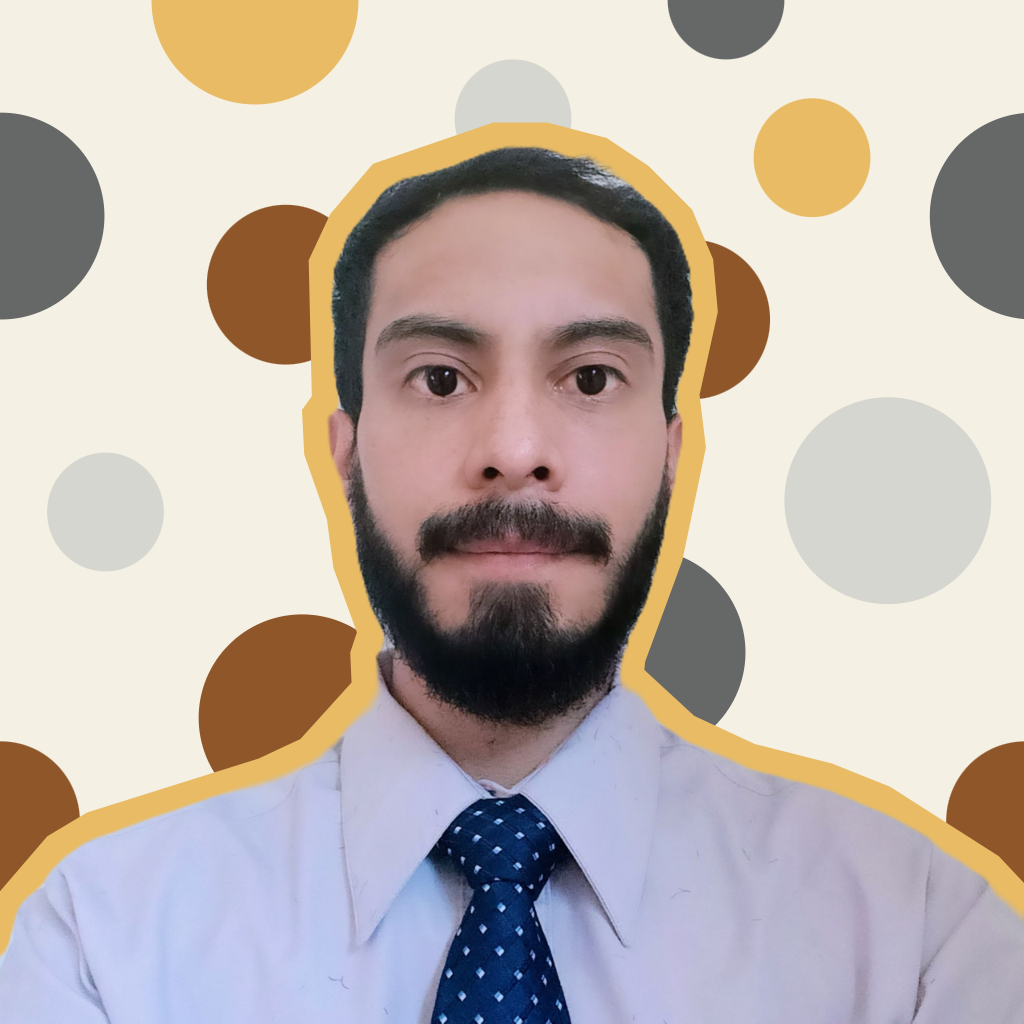
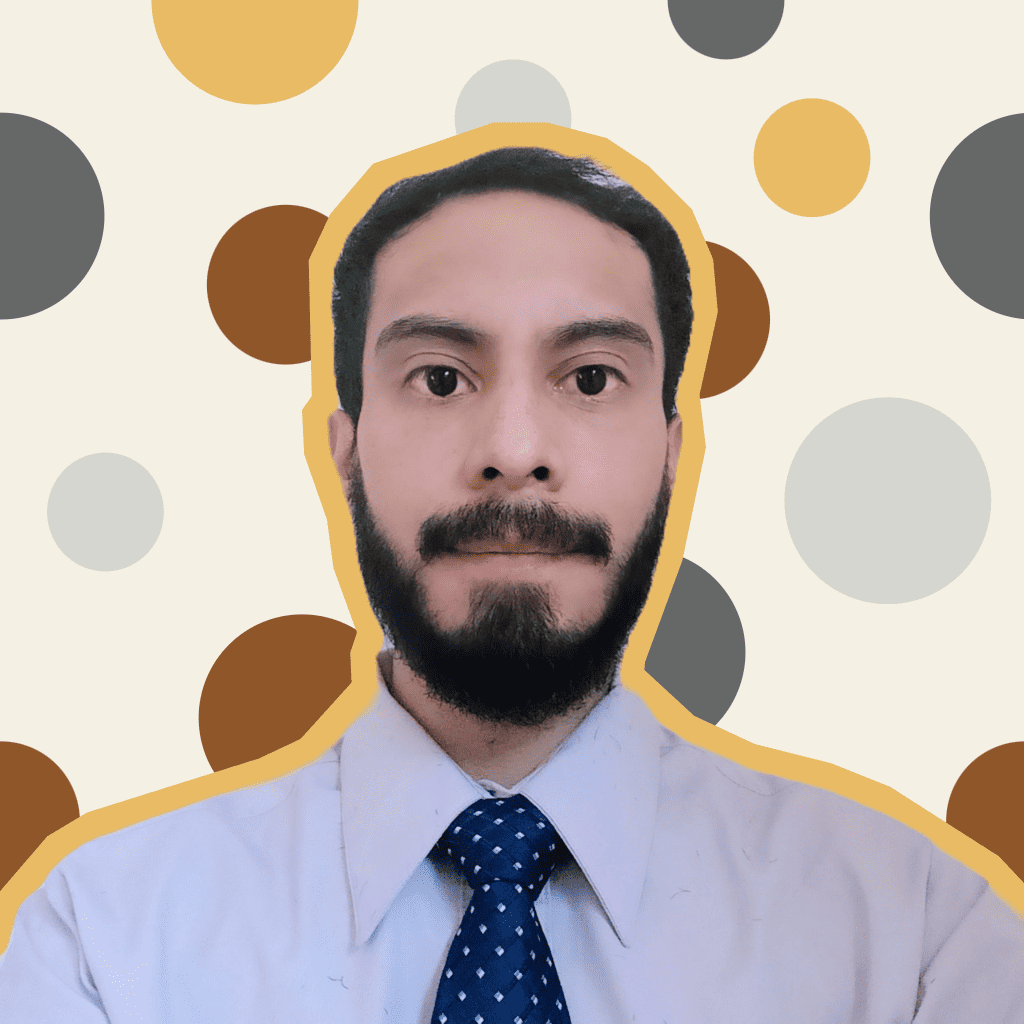
ADD: Android project, photo carousel and compressed images to reduce loading time.

diff --git a/index.html b/index.html
@@ -405,6 +405,68 @@
     <div class="portfolio-section">
       <h2 class="h2 fw-light mb-4">Portfolio</h2>
       
+      <div class="row g-0">
+        <div class="col-md-6">
+            <div id="carouselExampleIndicators" class="carousel slide" data-mdb-ride="carousel">
+                <div class="carousel-indicators">
+                    <button type="button" data-mdb-target="#carouselExampleIndicators" data-mdb-slide-to="0" class="active" aria-current="true" aria-label="Slide 1"></button>
+                    <button type="button" data-mdb-target="#carouselExampleIndicators" data-mdb-slide-to="1" aria-label="Slide 2"></button>
+                    <button type="button" data-mdb-target="#carouselExampleIndicators" data-mdb-slide-to="2" aria-label="Slide 3"></button>
+                    </div>
+                <div class="carousel-inner">
+                    <div class="carousel-item active">
+                        <img src="images/Projects/Application/1 Login View.png" class="d-block" alt="Login View" style="max-width: 50%; margin: 0 auto;">
+                    </div>
+                    <div class="carousel-item">
+                        <img src="images/Projects/Application/2 Create Account.png" class="d-block" alt="New Account" style="max-width: 50%; margin: 0 auto;">
+                    </div>
+                    <div class="carousel-item">
+                        <img src="images/Projects/Application/3 Main View.png" class="d-block" alt="Main View" style="max-width: 50%; margin: 0 auto;">
+                    </div>
+                    <div class="carousel-item">
+                        <img src="images/Projects/Application/4 New Payment.png" class="d-block" alt="Main View" style="max-width: 50%; margin: 0 auto;">
+                    </div>
+                    <div class="carousel-item">
+                      <img src="images/Projects/Application/5 New Payment Filled.png" class="d-block" alt="Main View" style="max-width: 50%; margin: 0 auto;">
+                  </div>
+                  <div class="carousel-item">
+                    <img src="images/Projects/Application/6 Main View With Month Payments.png" class="d-block" alt="Main View" style="max-width: 50%; margin: 0 auto;">
+                  </div>
+                  <div class="carousel-item">
+                    <img src="images/Projects/Application/7 Account.png" class="d-block" alt="Main View" style="max-width: 50%; margin: 0 auto;">
+                  </div>
+                  <div class="carousel-item">
+                    <img src="images/Projects/Application/8 Settings.png" class="d-block" alt="Main View" style="max-width: 50%; margin: 0 auto;">
+                  </div>
+                  <div class="carousel-item">
+                    <img src="images/Projects/Application/10 All Entries.png" class="d-block" alt="Main View" style="max-width: 50%; margin: 0 auto;">
+                  </div>
+                    </div>
+                <button class="carousel-control-prev" type="button" data-mdb-target="#carouselExampleIndicators" data-mdb-slide="prev">
+                    <span class="carousel-control-prev-icon" aria-hidden="true"></span>
+                    <span class="visually-hidden">Previous</span>
+                </button>
+                <button class="carousel-control-next" type="button" data-mdb-target="#carouselExampleIndicators" data-mdb-slide="next">
+                    <span class="carousel-control-next-icon" aria-hidden="true"></span>
+                    <span class="visually-hidden">Next</span>
+                </button>
+            </div>
+        </div>
+        <div class="col-md-6 d-flex align-items-center" data-aos="fade-left" data-aos-delay="100">
+            <div class="m-4 mt-md-2">
+                <p class="text-teal text-small">Design / Marketing / Sublimation / CRM / E-commerce</p>
+                <h3><a href="https://sublimedesign.com.mx/">Android Development</a></h3>
+                <h4>Finance Calculator</h4>
+                <ul>
+                    <li>Mobile application to track your expenses.</li>
+                    <li>Management of users, categories, and transactions.</li>
+                    <li>Use of SQLite database to store data.</li>
+                    <li>Use of Android Studio and Java Language to develop the application.</li>
+                </ul>
+            </div>
+        </div>
+    </div>
+
       <!--
       <div class="row g-0">
         <div class="col-md-6"><a href="https://sublimedesign.com.mx/" target="_blank">
